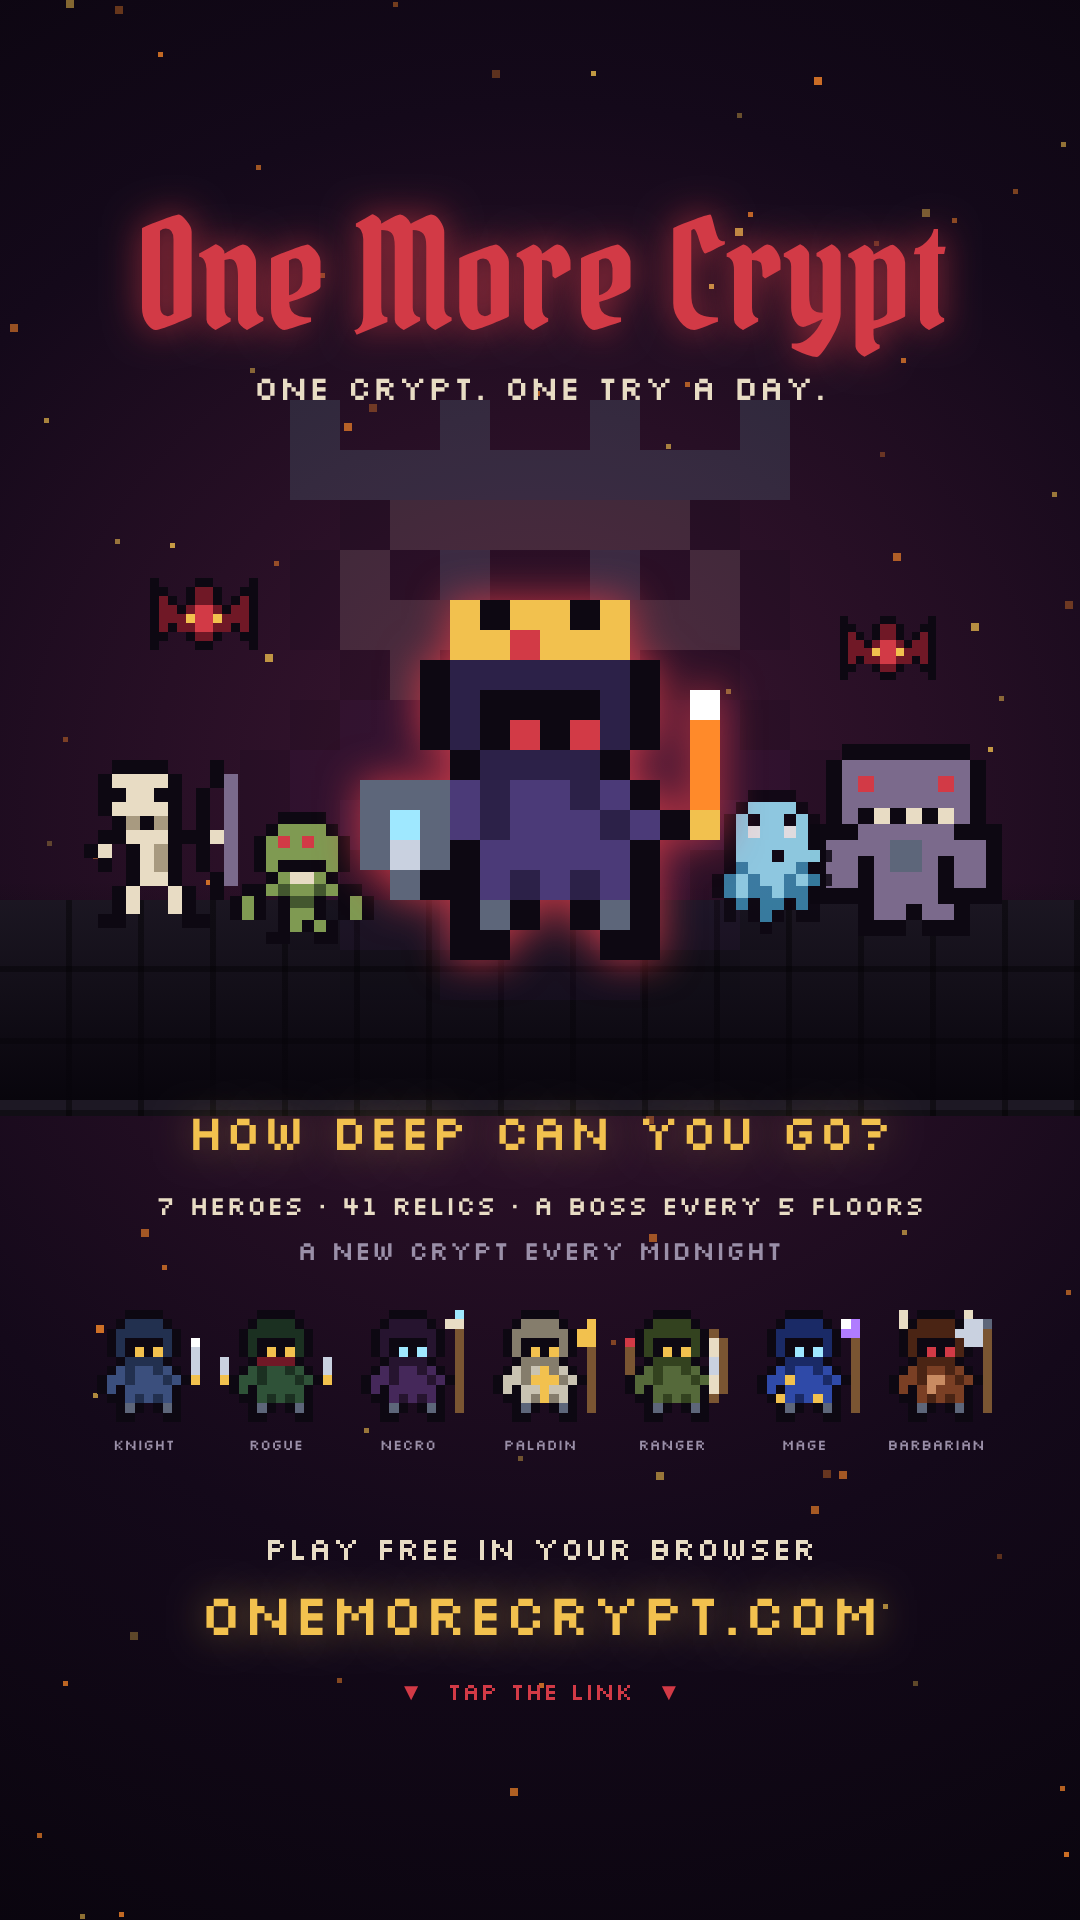
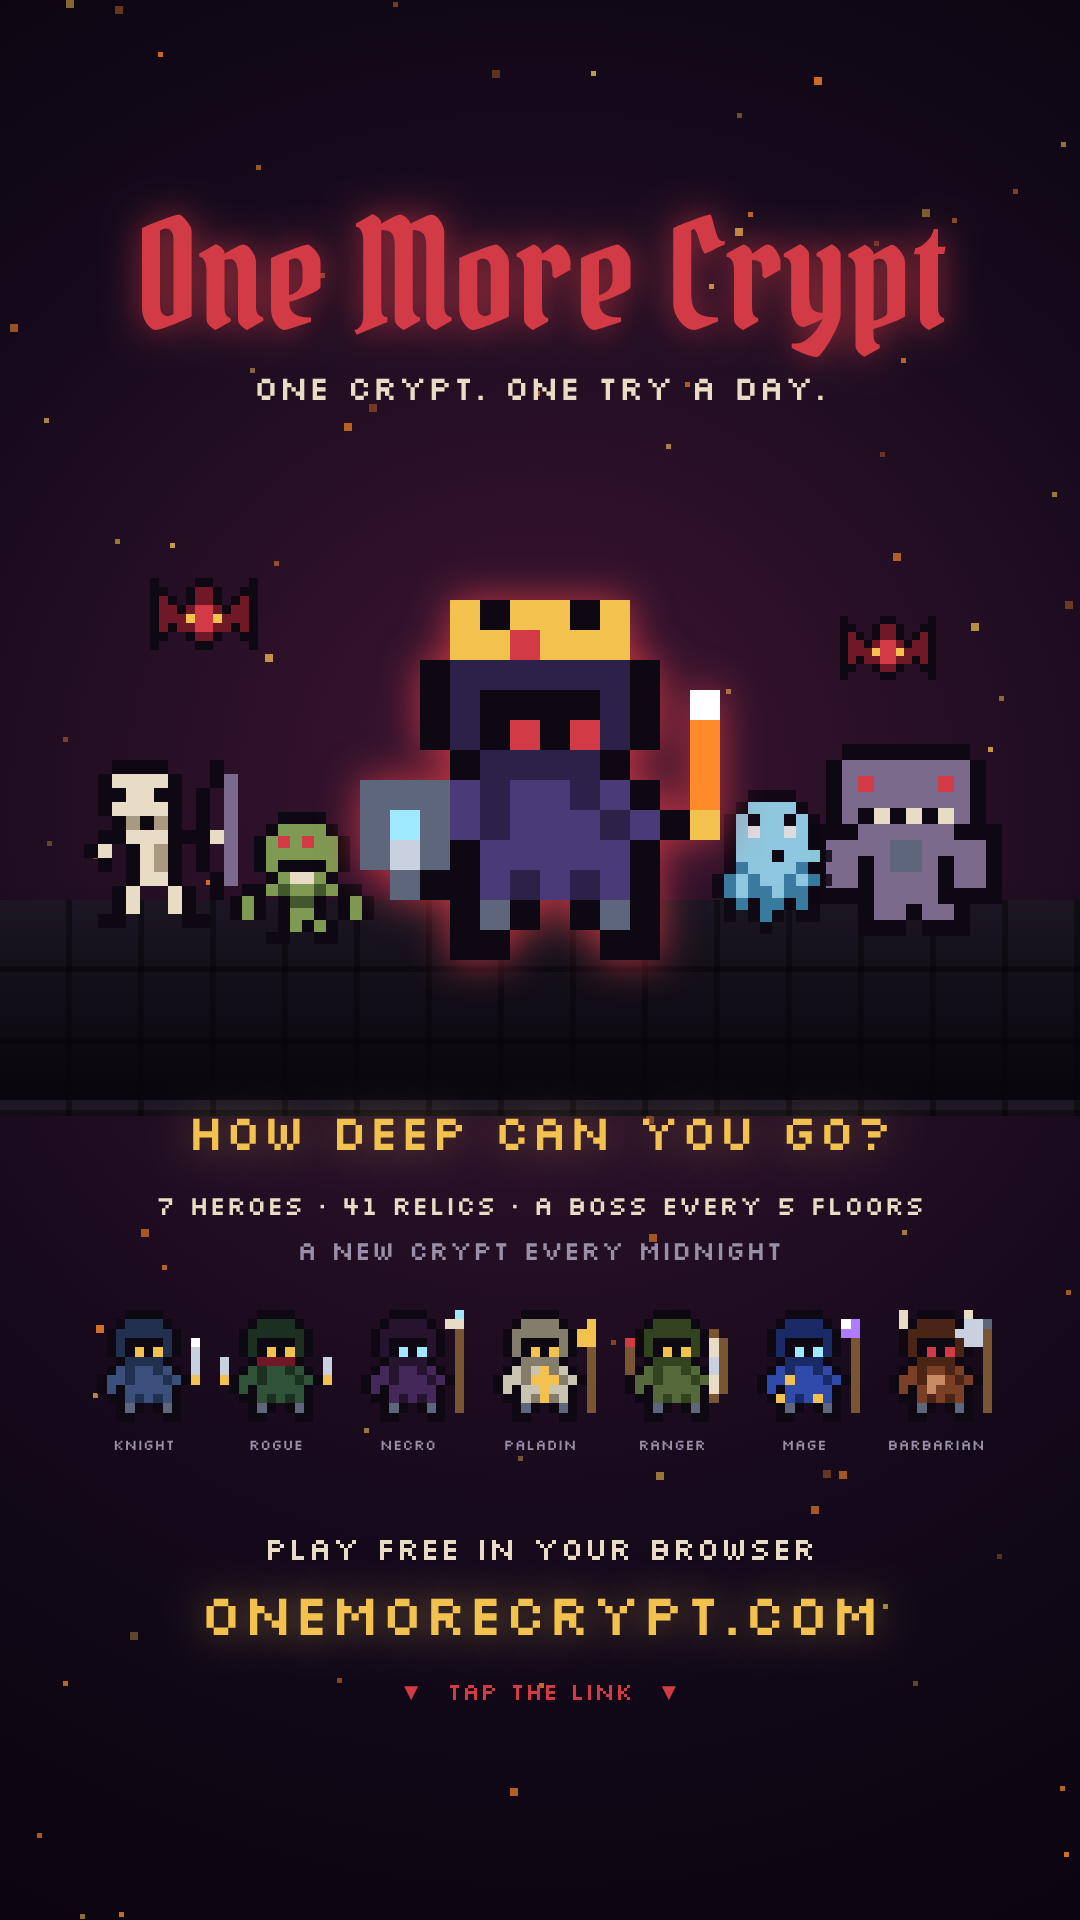
Add the first Instagram carousel post
Claude-Session: https://claude.ai/code/session_01EZvy4DRrhZeutdw1H9MYoi

Changed region(s): [[0.2444, 0.1875, 0.7333, 0.3125]]

diff --git a/scripts/ig-post.html b/scripts/ig-post.html
@@ -1,0 +1,234 @@
+<!doctype html>
+<html>
+  <head>
+    <meta charset="UTF-8" />
+    <link href="https://fonts.googleapis.com/css2?family=Pirata+One&family=Silkscreen&display=swap" rel="stylesheet" />
+    <style>
+      html, body { margin: 0; background: #07040b; }
+      canvas { display: block; }
+    </style>
+  </head>
+  <body>
+    <canvas id="slide" width="1080" height="1350"></canvas>
+    <script type="module">
+      // Instagram carousel slides (1080x1350). Render with: node scripts/make-ig-post.mjs
+      import { HEROES } from '/src/content.ts';
+      import { heroSprite } from '/src/hero.ts';
+      import { RELIC_BY_ID } from '/src/relics.ts';
+      import { sprites } from '/src/sprites.ts';
+
+      await document.fonts.load('150px "Pirata One"');
+      await document.fonts.load('30px Silkscreen');
+      const W = 1080, H = 1350;
+      const ctx = document.getElementById('slide').getContext('2d');
+      ctx.imageSmoothingEnabled = false;
+      const s = sprites();
+
+      function text(str, x, y, font, color, align = 'center', glow = null) {
+        ctx.font = font;
+        ctx.textAlign = align;
+        ctx.fillStyle = color;
+        if (glow) { ctx.shadowColor = glow; ctx.shadowBlur = 34; }
+        ctx.fillText(str, x, y);
+        ctx.shadowBlur = 0;
+      }
+      function img(i, x, y, size, alpha = 1, glow = null) {
+        ctx.globalAlpha = alpha;
+        if (glow) { ctx.shadowColor = glow; ctx.shadowBlur = 40; }
+        ctx.drawImage(i, x, y, size, size);
+        ctx.shadowBlur = 0;
+        ctx.globalAlpha = 1;
+      }
+      function backdrop(glow, seed) {
+        const bg = ctx.createRadialGradient(W / 2, 560, 40, W / 2, 680, 1000);
+        bg.addColorStop(0, glow);
+        bg.addColorStop(0.6, '#13091a');
+        bg.addColorStop(1, '#07040b');
+        ctx.fillStyle = bg;
+        ctx.fillRect(0, 0, W, H);
+        let r = seed;
+        const rand = () => ((r = (r * 1103515245 + 12345) & 0x7fffffff) / 0x7fffffff);
+        for (let i = 0; i < 60; i++) {
+          ctx.globalAlpha = 0.25 + rand() * 0.5;
+          ctx.fillStyle = rand() < 0.6 ? '#ff8a2a' : '#f2c14e';
+          const sz = rand() < 0.3 ? 7 : 4;
+          ctx.fillRect(Math.floor(rand() * W), Math.floor(rand() * H), sz, sz);
+        }
+        ctx.globalAlpha = 1;
+      }
+      function floor(y0, y1, t = 72) {
+        for (let x = 0; x < W; x += t) {
+          for (let y = y0; y < y1; y += t) {
+            ctx.fillStyle = (x / t + y / t) % 2 ? '#1d1824' : '#211b29';
+            ctx.fillRect(x, y, t, t);
+            ctx.fillStyle = 'rgba(0,0,0,0.4)';
+            ctx.fillRect(x, y + t - 6, t, 6);
+            ctx.fillRect(x + t - 6, y, 6, t);
+          }
+        }
+      }
+      function tile(x, y, t, fill) {
+        ctx.fillStyle = fill;
+        ctx.fillRect(x, y, t, t);
+      }
+      function pager(n) {
+        for (let i = 0; i < 6; i++) {
+          ctx.fillStyle = i === n - 1 ? '#f2c14e' : '#3a2a4a';
+          ctx.fillRect(W / 2 - 75 + i * 26, H - 60, 14, 14);
+        }
+      }
+      function heading(str, sub) {
+        text(str, W / 2, 190, '110px "Pirata One"', '#d23a46', 'center', 'rgba(210,58,70,0.7)');
+        if (sub) text(sub, W / 2, 250, '28px Silkscreen', '#e8dcc4');
+      }
+      const knight = (relics, log) => heroSprite('knight', relics, log).normal;
+
+      const SLIDES = {
+        // 1. The hook
+        1() {
+          backdrop('#3a1530', 7);
+          text('One More', W / 2, 230, '170px "Pirata One"', '#d23a46', 'center', 'rgba(210,58,70,0.75)');
+          text('Crypt', W / 2, 390, '170px "Pirata One"', '#d23a46', 'center', 'rgba(210,58,70,0.75)');
+          floor(940, 1130);
+          const fade = ctx.createLinearGradient(0, 920, 0, 1140);
+          fade.addColorStop(0, 'rgba(7,4,11,0)');
+          fade.addColorStop(1, 'rgba(7,4,11,0.95)');
+          ctx.fillStyle = fade;
+          ctx.fillRect(0, 920, W, 230);
+          img(s.archer.normal, 60, 800, 156);
+          img(s.ghoul.normal, 220, 836, 132);
+          img(s.wraith.normal, 700, 830, 132, 0.85);
+          img(s.brute.normal, 830, 776, 180);
+          img(s.bat.normal, 140, 600, 100);
+          img(s.bat.normal, 850, 640, 90);
+          img(knight({ crown: 1, ember: 2, mirror: 1, fang: 1 }, ['fang', 'mirror', 'ember', 'crown']), W / 2 - 170, 640, 340, 1, 'rgba(210,58,70,0.9)');
+          text('A NEW CRYPT EVERY DAY.', W / 2, 1180, '40px Silkscreen', '#e8dcc4');
+          text('ONE TRY. HOW DEEP CAN YOU GO?', W / 2, 1235, '34px Silkscreen', '#f2c14e');
+          text('SWIPE ›', W - 60, H - 50, '24px Silkscreen', '#9a8fa8', 'right');
+          pager(1);
+        },
+        // 2. How it plays
+        2() {
+          backdrop('#2a1328', 3);
+          heading('How it plays', 'A ROGUELITE YOU PLAY IN SECONDS');
+          const t = 96;
+          const steps = [
+            ['1', 'BUMP TO STRIKE', 'Walk into a foe to hit it. Every move you make, they make one too.', () => {
+              const y = 330;
+              for (let i = 0; i < 4; i++) tile(160 + i * t, y, t - 4, '#211b29');
+              img(knight({}, []), 160 + t + 8, y + 8, 80);
+              img(s.ghoul.white, 160 + 2 * t + 8, y + 8, 80);
+              text('-1', 160 + 2.5 * t, y - 6, '30px Silkscreen', '#ff4d5a');
+            }],
+            ['2', 'CLEAR THE FLOOR', 'Slay every foe and the stairs unseal. Step on them to go deeper.', () => {
+              const y = 640;
+              tile(208, y, t - 4, '#000');
+              ['#5a4a3a', '#43372b', '#2e251d', '#1a140f'].forEach((c, i) => { ctx.fillStyle = c; ctx.fillRect(220 + i * 6, y + 12 + i * 18, t - 28 - i * 12, 18); });
+              ctx.strokeStyle = '#f2c14e'; ctx.lineWidth = 4; ctx.strokeRect(208, y, t - 4, t - 4);
+              text('DESCEND', 256, y - 12, '22px Silkscreen', '#f2c14e');
+            }],
+            ['3', 'CLAIM A RELIC', 'After every floor, pick 1 of 3. They stack, combo and break the game.', () => {
+              const y = 950;
+              ['crown', 'ember', 'storm'].forEach((id, i) => {
+                ctx.fillStyle = i === 1 ? '#2a1d10' : '#150e1d';
+                ctx.fillRect(130 + i * 90, y, 80, 80);
+                ctx.strokeStyle = i === 1 ? '#f2c14e' : '#3a2a4a';
+                ctx.lineWidth = 3;
+                ctx.strokeRect(130 + i * 90, y, 80, 80);
+                ctx.font = '46px "Noto Color Emoji", "Apple Color Emoji", sans-serif';
+                ctx.textAlign = 'center';
+                ctx.fillText(RELIC_BY_ID[id].emoji, 170 + i * 90, y + 58);
+              });
+            }],
+          ];
+          steps.forEach(([n, title, desc, draw], i) => {
+            const y = 320 + i * 310;
+            draw();
+            text(n, 520, y + 70, '64px "Pirata One"', '#d23a46', 'left');
+            text(title, 580, y + 40, '30px Silkscreen', '#f2c14e', 'left');
+            ctx.font = '26px sans-serif';
+            ctx.fillStyle = '#e8dcc4';
+            ctx.textAlign = 'left';
+            const words = desc.split(' ');
+            let line = '', ly = y + 90;
+            for (const w of words) {
+              if (ctx.measureText(line + w).width > 420) { ctx.fillText(line, 580, ly); line = ''; ly += 36; }
+              line += w + ' ';
+            }
+            ctx.fillText(line, 580, ly);
+          });
+          pager(2);
+        },
+        // 3. Relics change the hero
+        3() {
+          backdrop('#3a2a10', 11);
+          heading('Build something broken', 'YOUR HERO CHANGES WITH EVERY RELIC');
+          const stages = [[], ['whetstone'], ['whetstone', 'ember', 'crown'], ['whetstone', 'ember', 'crown', 'mirror', 'storm', 'heart', 'thorns']];
+          stages.forEach((log, i) => {
+            const relics = {};
+            log.forEach((id) => (relics[id] = (relics[id] ?? 0) + 1));
+            const x = 70 + i * 250;
+            img(knight(relics, log), x, 420, 200, 1, i === 3 ? 'rgba(242,193,78,0.8)' : null);
+            const added = i === 0 ? 'START' : log.slice(stages[i - 1].length).map((id) => RELIC_BY_ID[id].emoji).join('');
+            ctx.font = i === 0 ? '24px Silkscreen' : '40px "Noto Color Emoji", "Apple Color Emoji", sans-serif';
+            ctx.fillStyle = '#9a8fa8';
+            ctx.textAlign = 'center';
+            ctx.fillText(added, x + 100, 690);
+            if (i < 3) text('›', x + 225, 540, '60px Silkscreen', '#d23a46');
+          });
+          text('41 RELICS · 18 SECRET COMBOS', W / 2, 860, '36px Silkscreen', '#f2c14e');
+          text('Three Ember Brands set the whole floor on fire.', W / 2, 940, '30px sans-serif', '#e8dcc4');
+          text('Storm Rune + Iron Conductor chains lightning.', W / 2, 990, '30px sans-serif', '#e8dcc4');
+          text('A Cursed Crown hits harder and costs you life.', W / 2, 1040, '30px sans-serif', '#e8dcc4');
+          pager(3);
+        },
+        // 4. Heroes
+        4() {
+          backdrop('#1a2340', 5);
+          heading('Seven heroes', 'UNLOCK THEM WITH SOULS FROM EVERY RUN');
+          HEROES.forEach((h, i) => {
+            const col = i % 2, row = Math.floor(i / 2);
+            const lone = i === HEROES.length - 1 && HEROES.length % 2;
+            const x = lone ? W / 2 - 230 : 70 + col * 500;
+            const y = 320 + row * 230;
+            img(heroSprite(h.id, {}, []).normal, x, y, 150);
+            text(h.name.toUpperCase(), x + 170, y + 50, '28px Silkscreen', '#f2c14e', 'left');
+            text(`${h.hp} HP · ${h.perk}`, x + 170, y + 92, '20px Silkscreen', '#9a8fa8', 'left');
+          });
+          pager(4);
+        },
+        // 5. Bosses
+        5() {
+          backdrop('#40141c', 9);
+          heading('A boss every 5 floors', 'AND BELOW FLOOR 30, THE ABYSS');
+          floor(850, 1000);
+          const bosses = [['boss', 'BONE WARDEN', 'Raises the dead'], ['abbot', 'PLAGUE ABBOT', 'Rains plague'], ['lich', 'LICH KING', 'Blinks and fires bolts']];
+          bosses.forEach(([k, n, d], i) => {
+            const x = 60 + i * 330;
+            img(s[k].normal, x + 15, 470 + (i === 2 ? -40 : 0), 300 - (i === 2 ? -40 : 0), 1, 'rgba(210,58,70,0.6)');
+            text(n, x + 165, 1060, '28px Silkscreen', '#f2c14e');
+            text(d, x + 165, 1105, '20px Silkscreen', '#9a8fa8');
+          });
+          text('Floor 5 · Floor 10 · Floor 15 · and deeper', W / 2, 1200, '28px sans-serif', '#e8dcc4');
+          pager(5);
+        },
+        // 6. Call to action
+        6() {
+          backdrop('#3a1530', 13);
+          text('Your turn.', W / 2, 260, '150px "Pirata One"', '#d23a46', 'center', 'rgba(210,58,70,0.75)');
+          text('ONE CRYPT. ONE TRY A DAY.', W / 2, 340, '34px Silkscreen', '#e8dcc4');
+          floor(780, 920);
+          img(knight({ crown: 1, ember: 2, mirror: 1, fang: 1 }, ['fang', 'mirror', 'ember', 'crown']), W / 2 - 150, 470, 300, 1, 'rgba(210,58,70,0.9)');
+          text('PLAY FREE IN YOUR BROWSER', W / 2, 1010, '34px Silkscreen', '#e8dcc4');
+          text('ONEMORECRYPT.COM', W / 2, 1090, '62px Silkscreen', '#f2c14e', 'center', 'rgba(242,193,78,0.5)');
+          text('LINK IN BIO · NO DOWNLOAD · NO SIGN-UP', W / 2, 1160, '24px Silkscreen', '#9a8fa8');
+          text('Share your depth and tag us', W / 2, 1230, '28px sans-serif', '#e8dcc4');
+          pager(6);
+        },
+      };
+
+      window.draw = (n) => SLIDES[n]();
+      window.ready = true;
+    </script>
+  </body>
+</html>

diff --git a/scripts/story.html b/scripts/story.html
@@ -80,7 +80,6 @@
           ctx.shadowBlur = 0;
           ctx.globalAlpha = 1;
         };
-        sprite(s.lich.normal, W / 2 - 300, 400, 600, 0.12);
         sprite(s.archer.normal, 70, 760, 168);
         sprite(s.ghoul.normal, 230, 800, 144);
         sprite(s.brute.normal, 810, 744, 192);
